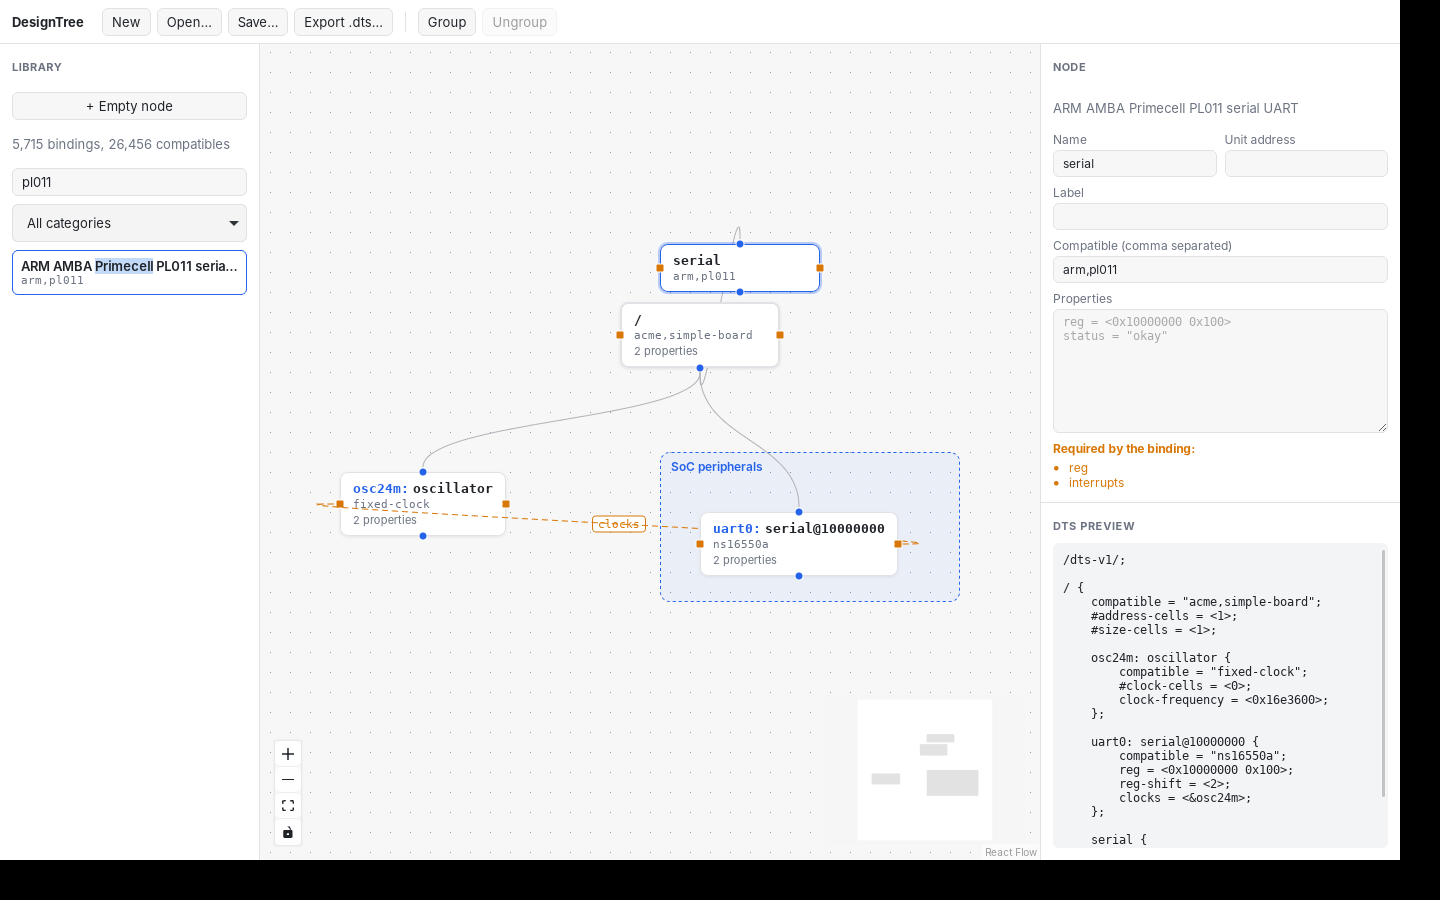
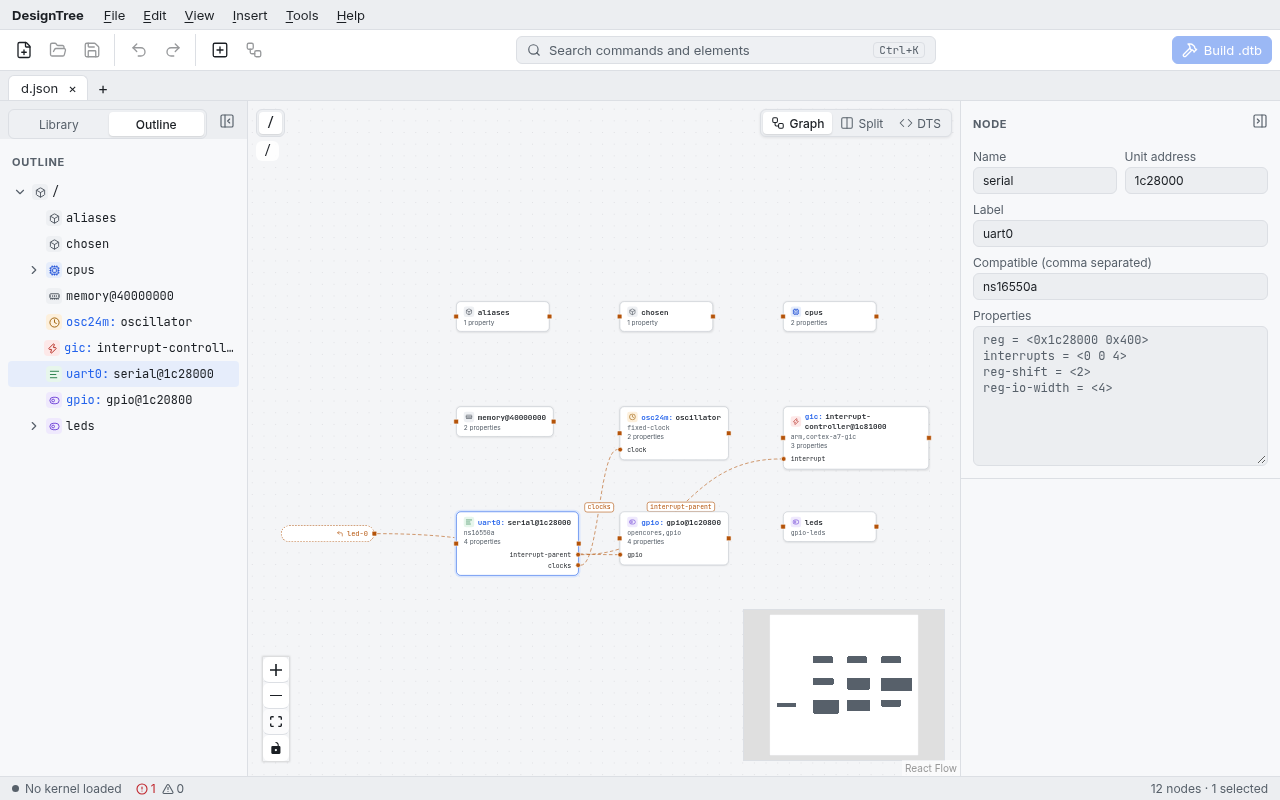
Bring the tutorial, guide and examples to the composition editor (US-16.5)
The tutorial says up front that new nodes go into the level on show and
to work on the main canvas, and its check step points at the outline.
The first-board examples drop auto layout's bus frames, which repeat
what a scope shows, and lay each scope's children out in a grid, so
each canvas reads well when opened. The guide's window screenshot shows
the outline, scopes and the new theme.

diff --git a/docs/guide/src/tutorial.md b/docs/guide/src/tutorial.md
@@ -14,8 +14,14 @@ Properties that have no field of their own go in the inspector's
 0x20000000>`), or straight into the DTS source panel.
 
 Nodes the kernel's schemas do not describe (`cpus`, `memory`, `chosen`,
-`aliases`, the LED itself) are added with **+ Empty node** and named in the
-inspector. Everything else comes from the library search.
+`aliases`, the LED itself) are added with **+ Empty node** at the top of the
+library and named in the inspector. Everything else comes from the library
+search.
+
+The canvas shows one level of the tree at a time (see [Building a
+design](designing.md)). A node you add goes into the level on show: on the
+main canvas, the `/` tab, it becomes a child of the root. Unless a step says
+otherwise, work on the main canvas.
 
 ## 1. The root and the CPU
 
@@ -91,6 +97,8 @@ Checkpoint: `first-board-5-led.json`.
 
 ## 6. Check and build
 
+- **View › Outline** (Ctrl+Shift+O) shows the whole tree in the side bar:
+  `cpus` with its `cpu@0`, `leds` with `led-0`, and the rest under `/`.
 - The **Problems** tab of the bottom panel should be empty. If it lists something, click
   the problem to jump to the node, and compare with the checkpoint.
 - **View › Address map** shows the four devices on the root bus with no overlaps.
